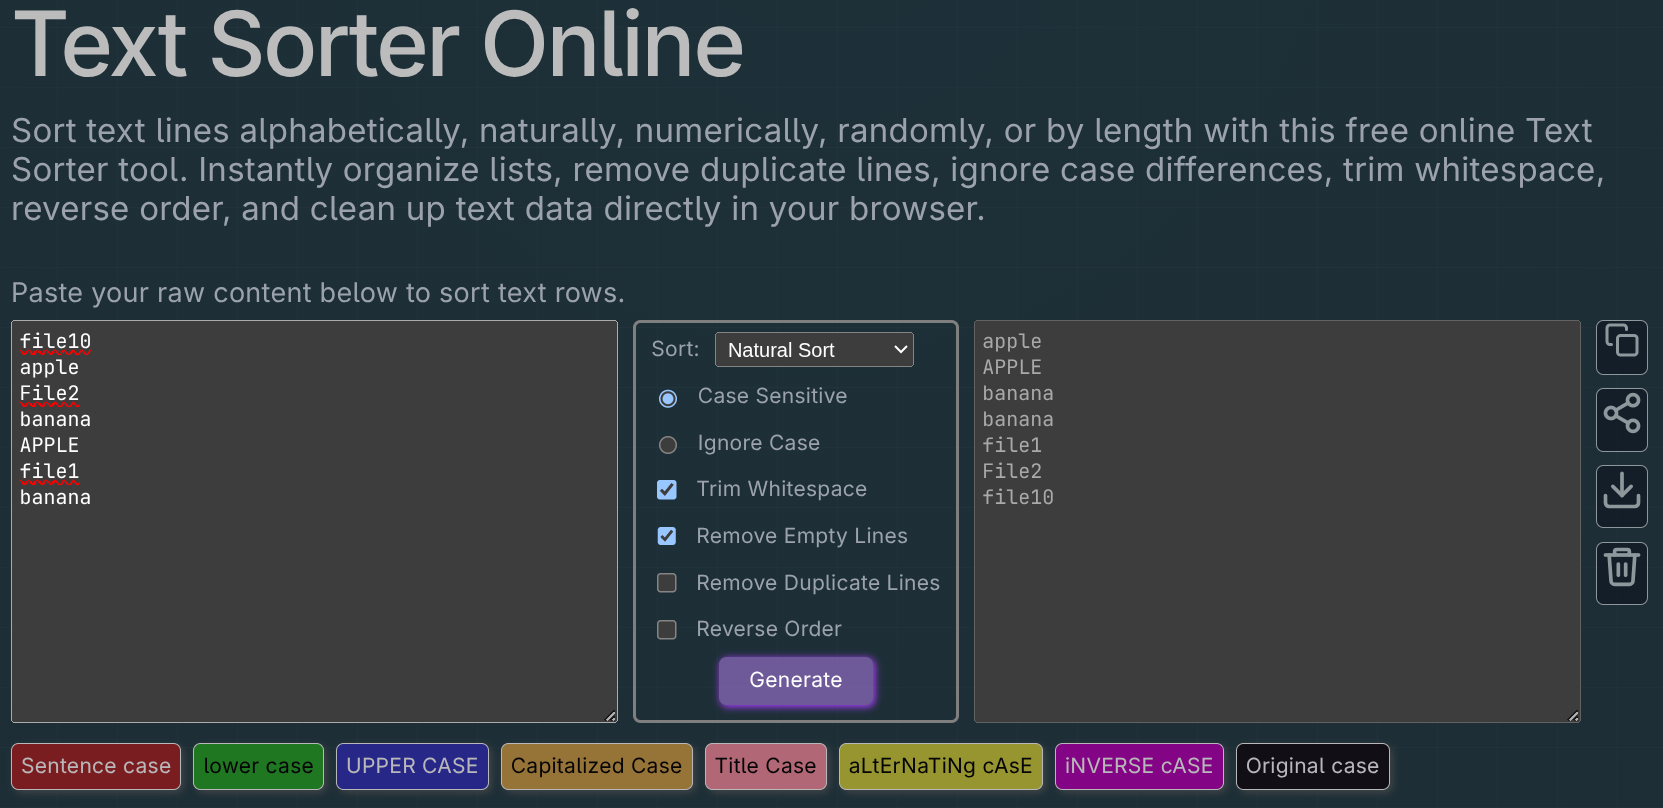
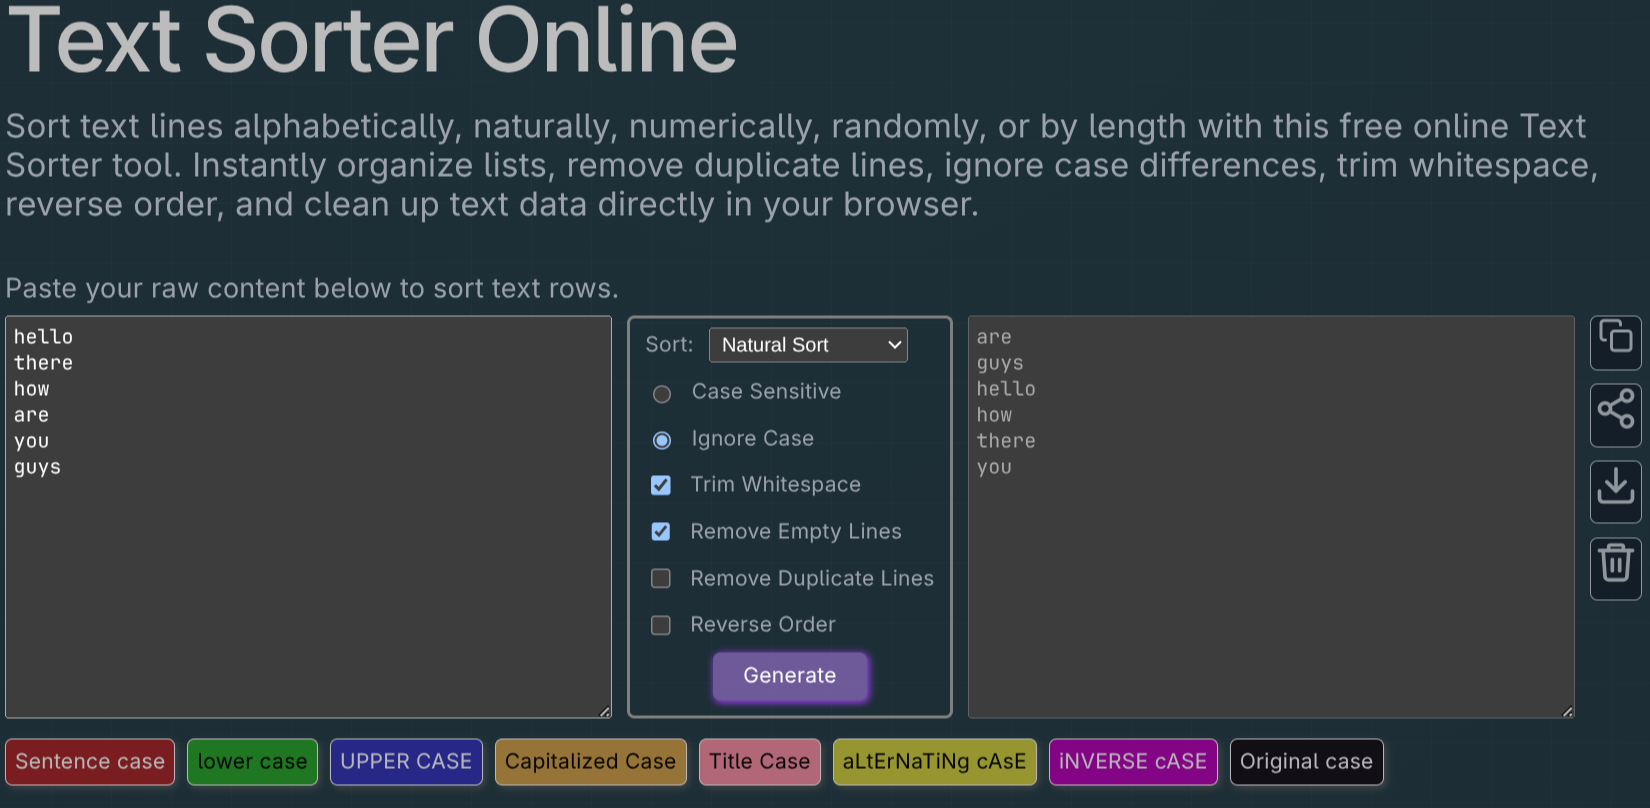
home page tools list update and og images update

diff --git a/public/index.html b/public/index.html
@@ -214,6 +214,25 @@
 
         <article class="tool-card">
           <h2>
+            <a href="/text/duplicate-line-remover/">
+              Duplicate Line Remover
+            </a>
+          </h2>
+        
+          <p>
+            Safely clean your data sheets,
+            text logs, or code loops by identifying
+            and removing identical lines and more
+            instantly with Unicode support.
+          </p>
+        
+          <a class="tool-link" href="/text/duplicate-line-remover/">
+            Use Tool
+          </a>
+        </article>
+
+        <article class="tool-card">
+          <h2>
             <a href="/text/inverse-case/">
               Inverse Case Converter
             </a>
@@ -312,6 +331,25 @@
           </p>
         
           <a class="tool-link" href="/text/slug-generator/">
+            Use Tool
+          </a>
+        </article>
+
+        <article class="tool-card">
+          <h2>
+            <a href="/text/text-sorter/">
+              Text Sorter
+            </a>
+          </h2>
+        
+          <p>
+            Sort text lines alphabetically, naturally, numerically, randomly, or by
+            length with this free online Text Sorter tool. Instantly organize lists,
+            remove duplicate lines, ignore case differences, trim whitespace, reverse
+            order, and clean up text data directly in your browser.
+          </p>
+        
+          <a class="tool-link" href="/text/text-sorter/">
             Use Tool
           </a>
         </article>